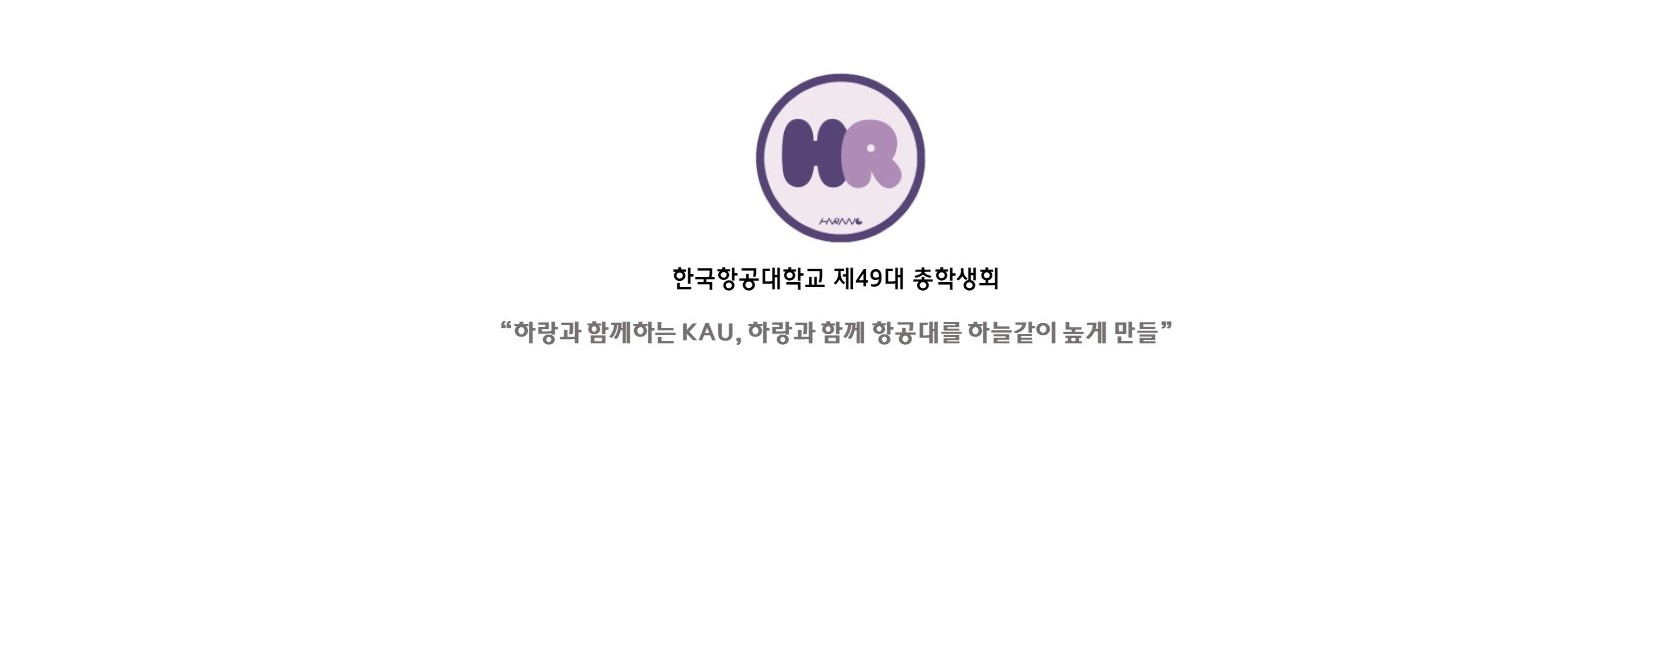
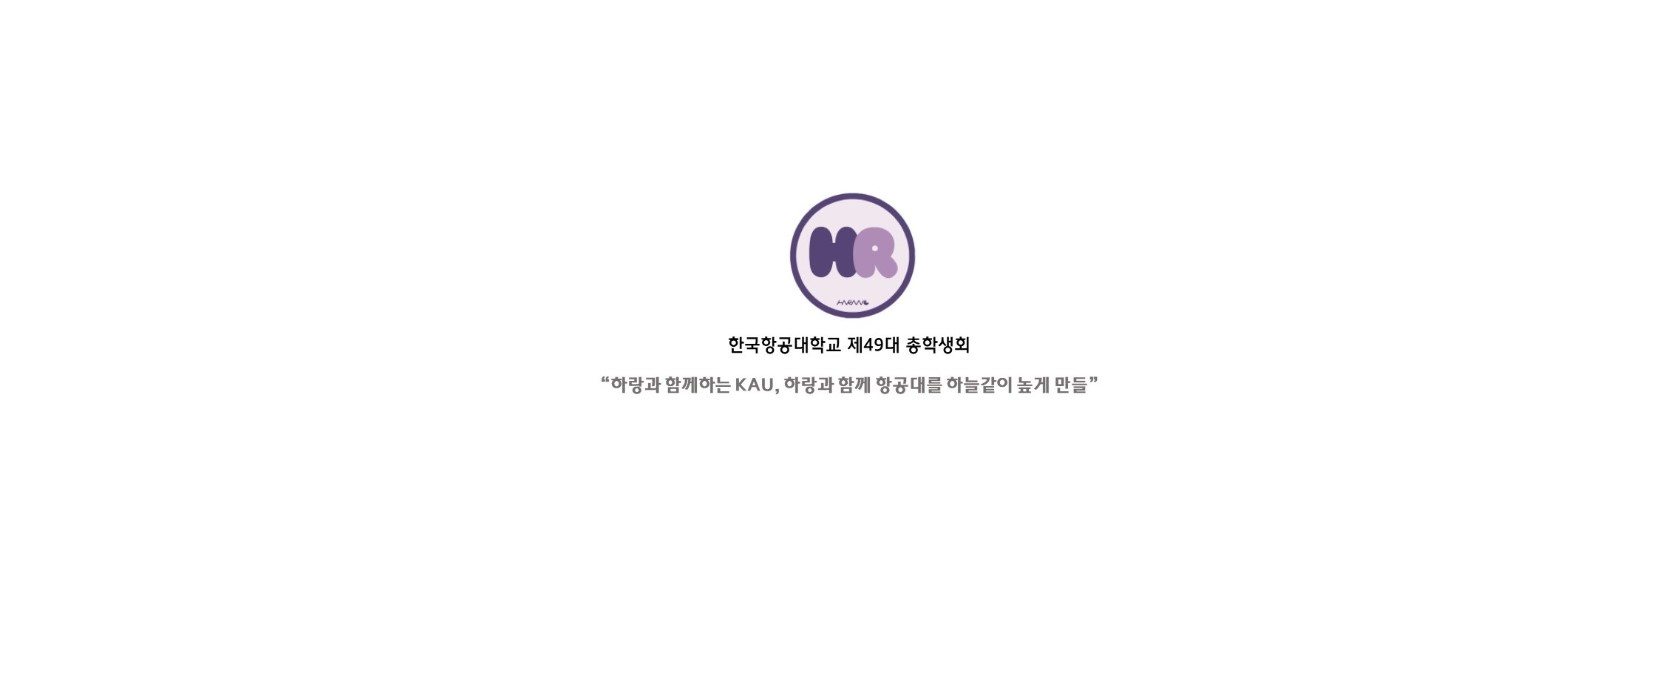
인트로메뉴 완료

Changed region(s): [[0.2801, 0.0938, 0.7157, 0.5938]]

diff --git a/theme/theme_wide_17/assets/bootstrap/css/bootstrap.min.css b/theme/theme_wide_17/assets/bootstrap/css/bootstrap.min.css
@@ -515,7 +515,7 @@ mark {
 }
 
 .img-fluid {
-    /* max-width: 80%; */
+    max-width: 80%;
     height: auto;
     margin: 0 auto;
 }

diff --git a/pages/location.php b/pages/location.php
@@ -151,35 +151,21 @@ include_once(G5_THEME_PATH.'/leftnav.php');
 	<div class="container-body margin-bottom-80">
 		<article id="sub_contents" class="cont s_body" style="text-align:center;">
 			<div class="location margin-top-60 col-lg-12 col-md-12 col-sm-12" style="display:flex;">
-				<iframe src="https://www.google.com/maps/embed?pb=!1m18!1m12!1m3!1d3251.430858410807!2d127.39172170580684!3d35.41935541904724!2m3!1f0!2f0!3f0!3m2!1i1024!2i768!4f13.1!3m3!1m2!1s0x356e2f48801d4c51%3A0xb5a7afbf5d59974f!2z64Ko7JuQ7JWE64-Z67Cc64us7IS87YSw!5e0!3m2!1sko!2skr!4v1667371520989!5m2!1sko!2skr" width="100%" height="350" style="border:0;" allowfullscreen="" loading="lazy" referrerpolicy="no-referrer-when-downgrade"></iframe>	
+				<iframe src="https://www.google.com/maps/embed?pb=!1m18!1m12!1m3!1d3161.089334376276!2d126.86251321450524!3d37.60005647979159!2m3!1f0!2f0!3f0!3m2!1i1024!2i768!4f13.1!3m3!1m2!1s0x357c9a2b10065cbf%3A0x4408073cf76f4e5b!2z6rOg7JaR7IucIO2YhOyynOuPmSDtlZzqta3tla3qs7XrjIDtlZnqtZAg7ZWZ7IOd7ZqM6rSA!5e0!3m2!1sko!2skr!4v1675387764496!5m2!1sko!2skr" width="100%" height="350" style="border:0;" allowfullscreen="" loading="lazy" referrerpolicy="no-referrer-when-downgrade"></iframe>
 				<div style="width:100%; text-align: left; padding-left:5%;">
-					<h2 class="font-weight-bold" style="color:#696969; text-align:center;">남원아동발달센터</h2>
+					<h2 class="font-weight-bold" style="color:#696969; text-align:center;">한국항공대학교 총학생회</h2>
 					
-					<p style="font-size: 15px;margin-bottom: 10px;color: #525252;">A. 전라북도 남원시 농고길 56 용성고 옆</p>
-					<p style="font-size: 15px;margin-bottom: 10px;color: #525252;">T. 063-636-4875</p>
-					<p style="font-size: 15px;margin-bottom: 10px;color: #525252;">F. 063-635-4875</p>
-					<p style="font-size: 15px;margin-bottom: 10px;color: #525252;">E. namwonyuncenter@naver.com</p>
+					<span class="material-icons" style="position:absolute">home</span><p style="font-size: 15px;margin-bottom: 10px;color: #525252;margin: -1px 0 0 30px;"> 경기도 고양시 항공대학로76, 학생회관 202-1호 총학생회실</p><br>
+					<span class="material-icons" style="position:absolute">call</span><p style="font-size: 15px;margin-bottom: 10px;color: #525252;margin: -1px 0 0 30px;"> 02-300-0235</p><br>
+					<svg class="svg-icon" viewBox="0 0 20 20" style="width:25px;position:absolute"><path fill="black" d="M11.344,5.71c0-0.73,0.074-1.122,1.199-1.122h1.502V1.871h-2.404c-2.886,0-3.903,1.36-3.903,3.646v1.765h-1.8V10h1.8v8.128h3.601V10h2.403l0.32-2.718h-2.724L11.344,5.71z"></path></svg>
+					<p style="font-size: 15px;margin-bottom: 10px;color: #525252;margin: -1px 0 0 30px;"> 한국항공대학교 총학생회 (kau.accompany)</p><br>
+					<svg class="svg-icon" viewBox="0 0 20 20" style="width:25px;position:absolute"><path fill="black" d="M14.52,2.469H5.482c-1.664,0-3.013,1.349-3.013,3.013v9.038c0,1.662,1.349,3.012,3.013,3.012h9.038c1.662,0,3.012-1.35,3.012-3.012V5.482C17.531,3.818,16.182,2.469,14.52,2.469 M13.012,4.729h2.26v2.259h-2.26V4.729z M10,6.988c1.664,0,3.012,1.349,3.012,3.012c0,1.664-1.348,3.013-3.012,3.013c-1.664,0-3.012-1.349-3.012-3.013C6.988,8.336,8.336,6.988,10,6.988 M16.025,14.52c0,0.831-0.676,1.506-1.506,1.506H5.482c-0.831,0-1.507-0.675-1.507-1.506V9.247h1.583C5.516,9.494,5.482,9.743,5.482,10c0,2.497,2.023,4.52,4.518,4.52c2.494,0,4.52-2.022,4.52-4.52c0-0.257-0.035-0.506-0.076-0.753h1.582V14.52z"></path>
+					</svg><p style="font-size: 15px;margin-bottom: 10px;color: #525252;margin: -1px 0 0 30px;"> 한국항공대학교 총학생회 (@kau._.rm)</p><br>
+					<span class="material-icons" style="position:absolute">mail</span><p style="font-size: 15px;margin-bottom: 10px;color: #525252;margin: -1px 0 0 30px;"> kaustudentcouncil@gmail.com</p><br>
+					<span class="material-icons" style="position:absolute">question_answer</span><p style="font-size: 15px;margin-bottom: 10px;color: #525252;margin: -1px 0 0 30px;"> 한국항공대학교 총학생회 카카오톡 (kau.chonghak)</p>
 				</div>
 			</div>
-			<div class="location margin-top-60 col-lg-12 col-md-12 col-sm-12" style="display:flex;">
-				<iframe src="https://www.google.com/maps/embed?pb=!1m18!1m12!1m3!1d3251.5349028381393!2d127.38779211514422!3d35.41677728025686!2m3!1f0!2f0!3f0!3m2!1i1024!2i768!4f13.1!3m3!1m2!1s0x356e2ff78ee6c6f7%3A0x26e7b55d03f88700!2z64Ko7JuQ7IucIOuwnOuLrOyepeyVoOyduCDso7zqsIQg7Zmc64-ZIOyEnOu5hOyKpA!5e0!3m2!1sko!2skr!4v1667883412444!5m2!1sko!2skr" width="100%" height="350" style="border:0;" allowfullscreen="" loading="lazy" referrerpolicy="no-referrer-when-downgrade"></iframe>
-				<div style="width:100%; text-align: left; padding-left:5%;">
-					<h2 class="font-weight-bold" style="color:#696969; text-align:center;">남원시 발달장애인 주간활동서비스</h2>
-					
-					<p style="font-size: 15px;margin-bottom: 10px;color: #525252;">A. 전라북도 남원시 시청북로 9</p>
-					<p style="font-size: 15px;margin-bottom: 10px;color: #525252;">T. 063-626-4875</p>
-					<p style="font-size: 15px;margin-bottom: 10px;color: #525252;">F. 063-634-4875</p>
-					<p style="font-size: 15px;margin-bottom: 10px;color: #525252;">E. nwdaycenter@naver.com</p>
-				</div>
-			</div>
-			<div class="location margin-top-60 col-lg-12 col-md-12 col-sm-12" style="display:flex;">
-				<iframe src="https://www.google.com/maps/embed?pb=!1m18!1m12!1m3!1d3251.2425596104895!2d127.6379431!3d35.424020899999995!2m3!1f0!2f0!3f0!3m2!1i1024!2i768!4f13.1!3m3!1m2!1s0x356fcaa7921bac27%3A0x36d373fb1f07cce7!2z7KCE652867aB64-EIOuCqOybkOyLnCDsgrDrgrTrqbQg67Cx7J2866asIDM3Mg!5e0!3m2!1sko!2skr!4v1667523100405!5m2!1sko!2skr" width="100%" height="350" style="border:0;" allowfullscreen="" loading="lazy" referrerpolicy="no-referrer-when-downgrade"></iframe>
-				<div style="width:100%; text-align: left; padding-left:5%;">
-					<h2 class="font-weight-bold" style="color:#696969; text-align:center;">산내지부</h2>
-					
-					<p style="font-size: 15px;margin-bottom: 10px;color: #525252;">Address. 전라북도 남원시 산내면 백일리 375-5</p>
-				</div>
-			</div>
+			
 		</article>		
 	</div>
 

diff --git a/pages/about.php b/pages/about.php
@@ -78,15 +78,16 @@ include_once(G5_THEME_PATH.'/leftnav.php');
 
 	<div class="container-body margin-top-80 margin-bottom-80">
       <div class="row">
-        <div class="col-lg-6">
+        <div class="col-lg-6" style="text-align:center;">
 			<img src="<?php echo G5_URL?>/pages/img/intro.jpg" class="img-fluid" style="width:100%;">
+			<p class="ks3" style="text-align:center;">회장 이정식 | 부회장 장연아</p>
         </div>
         <div class="col-lg-6 ks4">
 			<ul class="list-unstyle">
 			<li class="media">
 				<div class="media-body">
 					
-					<h5 class="mt-0 mb-1" style="font-weight:600;">안녕하세요.</h5>
+					<h5 class="mt-5 mb-1" style="font-weight:600;">안녕하세요.</h5>
 					<h5 class="mt-0 mb-1" style="font-weight:600;">한국항공대학교 제49대 총학생회 하랑입니다.</h5>
 					<br><br>
 					<p class="ks3">

diff --git a/pages/organization.php b/pages/organization.php
@@ -150,7 +150,7 @@ include_once(G5_THEME_PATH.'/leftnav.php');
 			<img src="<?php echo G5_URL?>/pages/img/organization2.png" class="img-fluid">
 		</article>		
 		<article id="sub_contents" class="cont sub_contents2 s_body" style="text-align:center; display:none;">
-			<img src="<?php echo G5_URL?>/pages/img/organization3.png" class="img-fluid">
+			<img src="<?php echo G5_URL?>/pages/img/organization2.png" class="img-fluid">
 		</article>		
 	</div>
 
